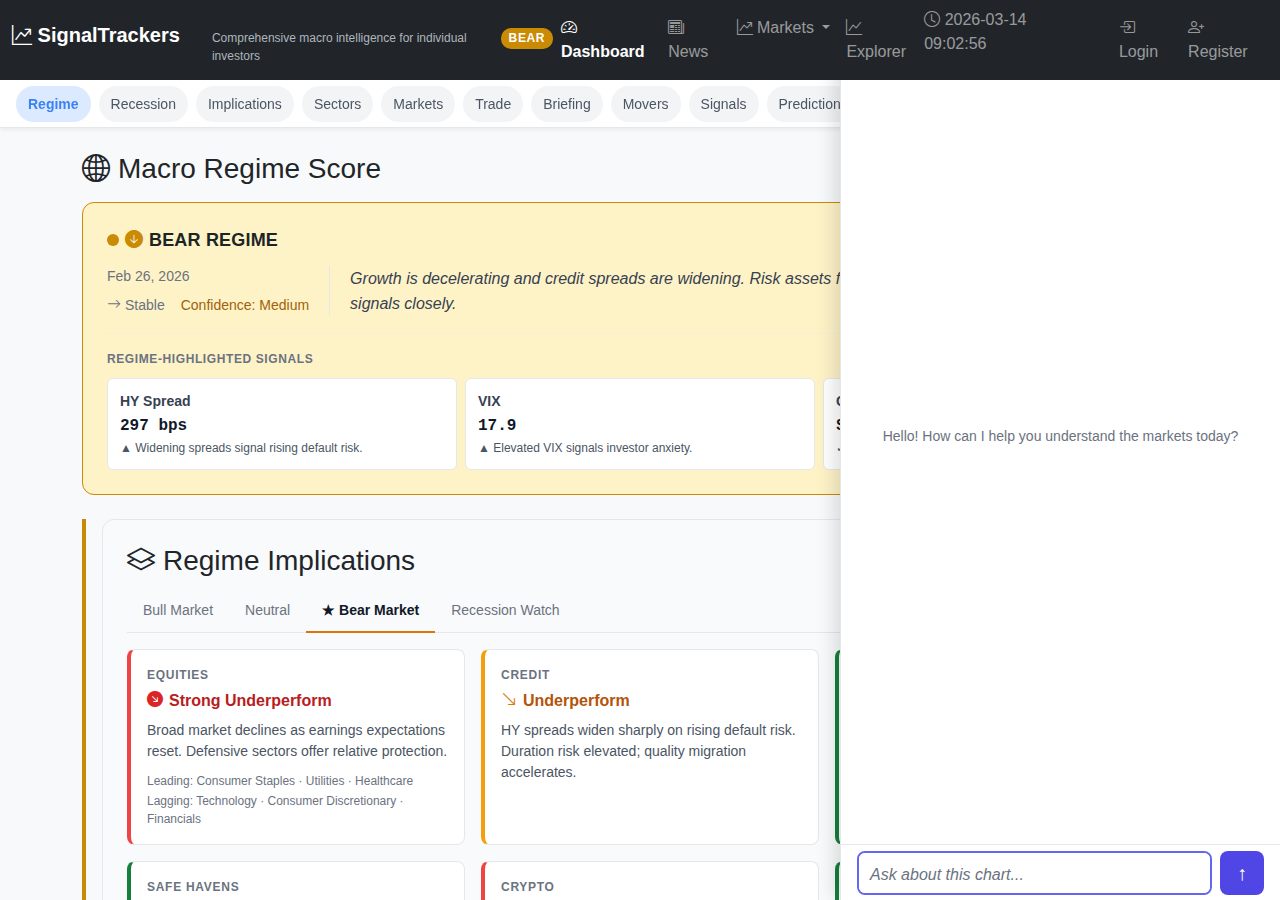
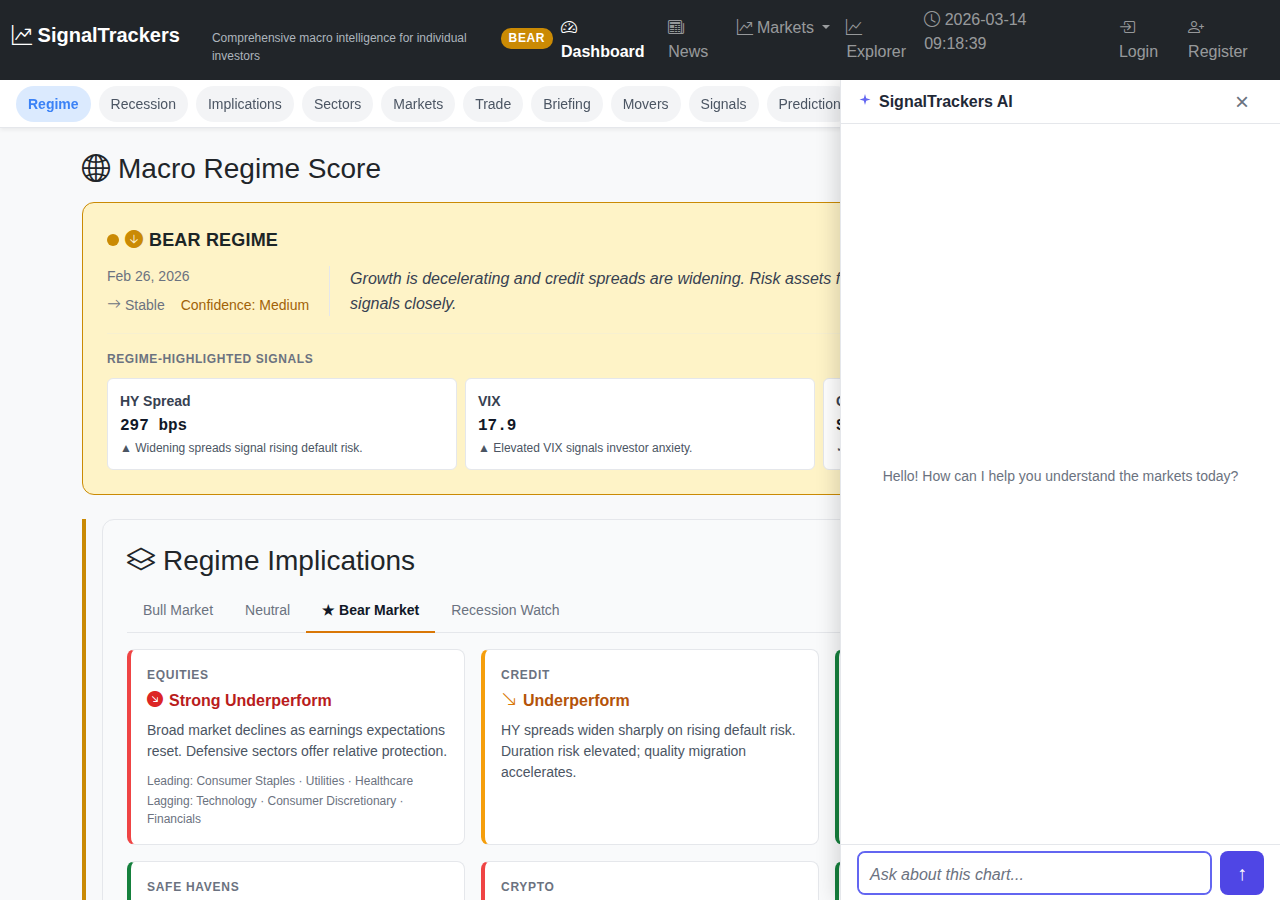
Fix chatbot panel positioning below navbar on tablet/desktop
Panel top was set to 0, causing the header and close button to render
behind the navbar. Now uses var(--navbar-height, 64px) so the panel
starts below the navbar and the close button is visible.

Updated screenshots to reflect the fix.

diff --git a/signaltrackers/static/css/components/chatbot.css b/signaltrackers/static/css/components/chatbot.css
@@ -537,14 +537,14 @@
    ============================================ */
 @media (min-width: 768px) {
 
-    /* Panel: right-side sliding panel (full viewport height) */
+    /* Panel: right-side sliding panel (below navbar to top visible) */
     .chatbot-panel {
         bottom: auto;
-        top: 0;
+        top: var(--navbar-height, 64px);
         left: auto;
         right: 0;
         width: 360px;
-        height: 100vh;
+        height: calc(100vh - var(--navbar-height, 64px));
         border-radius: 0;
         border-top: none;
         border-left: 1px solid #E5E7EB; /* neutral-200 */
